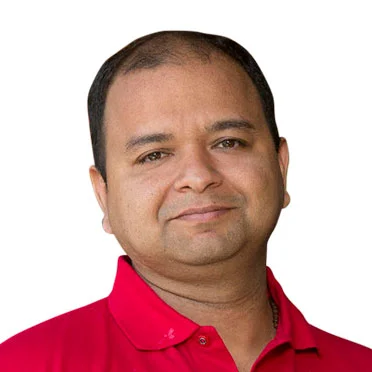
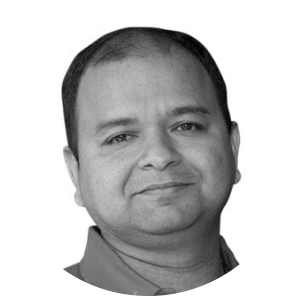
update mission page, fix style issues.

diff --git a/pages/about/index.tsx b/pages/about/index.tsx
@@ -22,30 +22,17 @@ import TeamItem, { TProps } from './TeamItem';
 
 const teams: Array<TProps> = [
   {
-    img: RamImg,
-    name: 'Ram Subramaniam',
+    img: SidImg,
+    name: 'Siddhartha Shekhar Singh',
     desc: (
       <div>
-        Ram is passionate about applying technology and analytics to improve service standards in the consumer financial services industry. He is a serial entrepreneur, who has founded and run successful technology start-ups. He has a Master’s degree from <b>Stanford Graduate School of Business.</b>
+        Siddhartha is passionate about making a positive impact in the lives of people by helping them manage their finances well. He is an experienced consumer banking professional who has worked in insurance, lending, and wealth management businesses. He has a Master’s degree from <b>Stanford Graduate School of Business.</b>
       </div>
     ),
-    mission: 'Cofounder',
+    mission: 'Cofounder CEO',
     bank1: StanfordImg,
     bank2: CitiBankImg,
-    social: 'https://www.linkedin.com/in/ramsubra'
-  },
-  {
-    img: VarunImg,
-    name: 'Varun Agarwal',
-    desc: (
-      <div>
-        Varun is passionate about creating an ecosystem in the financial services space in which all parties can benefit. He is an experienced consumer services professional who has worked in wealth management and insurance business. He has a Master’s degree from <b>Alliance Business Academy.</b>
-      </div>
-    ),
-    mission: 'COO India',
-    bank1: KarvyImg,
-    bank2: CitiBankImg,
-    social: 'https://in.linkedin.com/in/varun-mymoneykarma'
+    social: 'https://www.linkedin.com/in/siddhartha-shekhar-singh-3733105/'
   },
   {
     img: AlexImg,
@@ -61,17 +48,30 @@ const teams: Array<TProps> = [
     social: 'https://www.linkedin.com/in/alexanderharo/'
   },
   {
-    img: SidImg,
-    name: 'Siddhartha Shekhar Singh',
+    img: VarunImg,
+    name: 'Varun Agarwal',
     desc: (
       <div>
-        Siddhartha is passionate about making a positive impact in the lives of people by helping them manage their finances well. He is an experienced consumer banking professional who has worked in insurance, lending, and wealth management businesses. He has a Master’s degree from <b>Stanford Graduate School of Business.</b>
+        Varun is passionate about creating an ecosystem in the financial services space in which all parties can benefit. He is an experienced consumer services professional who has worked in wealth management and insurance business. He has a Master’s degree from <b>Alliance Business Academy.</b>
       </div>
     ),
-    mission: 'Cofounder CEO',
+    mission: 'COO India',
+    bank1: KarvyImg,
+    bank2: CitiBankImg,
+    social: 'https://in.linkedin.com/in/varun-mymoneykarma'
+  },
+  {
+    img: RamImg,
+    name: 'Ram Subramaniam',
+    desc: (
+      <div>
+        Ram is passionate about applying technology and analytics to improve service standards in the consumer financial services industry. He is a serial entrepreneur, who has founded and run successful technology start-ups. He has a Master’s degree from <b>Stanford Graduate School of Business.</b>
+      </div>
+    ),
+    mission: 'Cofounder',
     bank1: StanfordImg,
     bank2: CitiBankImg,
-    social: 'https://www.linkedin.com/in/siddhartha-shekhar-singh-3733105/'
+    social: 'https://www.linkedin.com/in/ramsubra'
   },
   {
     img: KunalImg,
@@ -149,13 +149,13 @@ const About = () => {
       </div>
       <div className="about-content">
         <div className="about-who">
-          <h2 className="mt-91">Who</h2>
+          <h2 className="mt-91">Leadership</h2>
           <p>
-            We are a group of Stanford alumni with a strong background in banking and technology, passionate about creating a positive impact in the lives of people by helping them manage their finances better. We believe that no two people have the same financial situation, so they should not be given one-size-fits-all financial recommendations. <br /><br /> We are providing <b>FREE</b> and <b>EASY</b> access to personalized financial management using proprietary algorithms.
+          “We are a group of Stanford alumni with a strong background in banking and technology, passionate about creating a positive impact in the lives of people by helping them manage their finances better. We believe that no two people have the same financial situation, so they should not be given one-size-fits-all financial recommendations. <br /><br /> We are providing <b>FREE</b> and <b>EASY</b> access to personalized financial management using proprietary algorithms.”
           </p>
         </div>
         <div className="about-team">
-          <h2>Team</h2>
+          <h2>Our Team</h2>
           <div className="about-team-members">
             {
               teams.map((item, index) => (
@@ -175,7 +175,7 @@ const About = () => {
             }
           </div>
         </div>
-        <div className="about-advisers">
+        {/* <div className="about-advisers">
           <h2>Advisers</h2>
           <div className="about-advisers-members">
             {
@@ -195,7 +195,7 @@ const About = () => {
               ))
             }
           </div>
-        </div>
+        </div> */}
       </div>
     </Layout>
   )

diff --git a/pages/about/TeamItem.scss b/pages/about/TeamItem.scss
@@ -1,19 +1,26 @@
 @import '../../styles/base.scss';
 
 .team-item {
-  display: flex;
+  // display: flex;
+  width: 435px;
 
+  
   &-img-wrapper {
-    img {
-      width: 190px;
-      height: 190px;
+    position: relative;
+    
+    .team-profile-img {
+      width: 288px;
+      height: 288px;
       border-radius: 50%;
+      position: absolute;
+      top: 122px;
+      left: 85px;
     }
   }
 
   &-content {
     text-align: left;
-    margin-left: 30px;
+    margin-left: 72px;
   }
 
   &-name {
@@ -22,7 +29,7 @@
     font-weight: 500;
     font-size: 16px;
     line-height: 22px;    
-    color: #FF5A3D;        
+    color: #3913B8;        
   }
 
   &-mission {
@@ -52,16 +59,18 @@
     height: 1px;
     background-color: rgba(29, 28, 28, 0.25);
     margin-top: 10px;
+    width: 315px;
   }
 
   &-desc {
     margin-top: 12.5px;
-    font-family: 'Avenir Next';
+    font-family: 'HelveticaNeue';
     font-style: normal;
     font-weight: normal;
     font-size: 16px;
     line-height: 22px;
 
-    color: #0B0303;
+    color: rgba(11, 3, 3, 0.8);
+    width: 315px;
   }
 }

diff --git a/pages/about/style.scss b/pages/about/style.scss
@@ -3,38 +3,40 @@
 .about-content {
   .about-who {
     text-align: center;
-    max-width: 755px;
+    max-width: 792px;
     margin: 0 auto;
 
     p {
       text-align: left;
       margin-top: 46px;
+      font-size: 32px;
+      line-height: 43px;
+
+      letter-spacing: 0.044151px;
+      color: rgb(6, 8, 9);
     }
   }
 
   .about-team {
-    // text-align: center;
-    max-width: 1440px;
     margin: 0 auto;
-    padding: 0 150px;
-    padding-top: 154px;
+    margin-top: 112px;
+    padding-top: 112px;
+    padding-bottom: 112px;
+    background: linear-gradient(112.56deg, rgba(23, 131, 232, 0.0590035) 13.28%, rgba(19, 49, 226, 0.202278) 81.91%);
 
     h2 {
+      text-align: center;
+      margin-bottom: -12px;
+    }
+
+    &-members {
       text-align: center;
     }
     
     &-item {
       padding: 0 32px;
-      margin-bottom: 95px;
-      width: calc(50% - 64px);
-      display: inline-block;
-
+      display: inline-flex;
     }
-
-    h2 {
-      margin-bottom: 60px;
-    }
-
   }
   
   .about-advisers {

diff --git a/pages/about/TeamItem.tsx b/pages/about/TeamItem.tsx
@@ -1,5 +1,6 @@
 import React from 'react';
 import InImg from '../../assets/mission/in.png';
+import IllustrationImg from '../../assets/mission/illustration.png';
 import './TeamItem.scss';
 
 export type TProps = {
@@ -15,7 +16,8 @@ export type TProps = {
 const TeamItem = ({ img, name, mission, desc, social, bank1, bank2 }: TProps) => (
   <div className="team-item">
     <div className="team-item-img-wrapper">
-      <img src={img} alt="profile_img" />
+      <img src={IllustrationImg} alt="illustration_img" className="team-profile-bg" />
+      <img src={img} className="team-profile-img" alt="profile_img" />
     </div>
     <div className="team-item-content">
       <div className="team-item-name">{name}</div>

diff --git a/pages/credit-score/style.scss b/pages/credit-score/style.scss
@@ -17,7 +17,6 @@
 
     ul {
       margin-top: 26px;
-      // list-style-image: url('../../assets/Checkbox.png');
 
       li {
         margin-top: 13px;
@@ -40,7 +39,7 @@
 
 .cs-hiw {
   background: linear-gradient(112.56deg, rgba(23, 131, 232, 0.0590035) 13.28%, rgba(19, 49, 226, 0.202278) 81.91%);
-  padding: 60px 0 150px 0;
+  padding: 120px 0;
   display: flex;
   flex-direction: column;
   align-items: center;

diff --git a/pages/intelligent-finance/style.scss b/pages/intelligent-finance/style.scss
@@ -30,7 +30,7 @@
 
 .bank-partner-title {
   text-align: center;
-  margin-top: 52px;
+  margin-top: 56px;
 }
 
 .bank-partner-wrapper {
@@ -38,6 +38,7 @@
   max-width: 1256px;
   padding: 0 92px;
   margin-top: 12px;
+  margin-bottom: 56px;
 
   .bank-img-wrapper {
     display: inline-block;

diff --git a/pages/gold-loan/style.scss b/pages/gold-loan/style.scss
@@ -41,7 +41,7 @@
 
 .gl-hiw {
   background: linear-gradient(112.56deg, rgba(23, 131, 232, 0.0590035) 13.28%, rgba(19, 49, 226, 0.202278) 81.91%);
-  padding: 60px 0 150px 0;
+  padding: 120px 0;
   display: flex;
   flex-direction: column;
   align-items: center;

diff --git a/pages/home-loan/style.scss b/pages/home-loan/style.scss
@@ -40,7 +40,7 @@
 
 .hl-hiw {
   background: linear-gradient(112.56deg, rgba(23, 131, 232, 0.0590035) 13.28%, rgba(19, 49, 226, 0.202278) 81.91%);
-  padding: 60px 0 150px 0;
+  padding: 120px 0;
   display: flex;
   flex-direction: column;
   align-items: center;

diff --git a/pages/personal-loan/style.scss b/pages/personal-loan/style.scss
@@ -39,7 +39,7 @@
 
 .pl-hiw {
   background: linear-gradient(112.56deg, rgba(23, 131, 232, 0.0590035) 13.28%, rgba(19, 49, 226, 0.202278) 81.91%);
-  padding: 60px 0 150px 0;
+  padding: 120px 0;
   display: flex;
   flex-direction: column;
   align-items: center;

diff --git a/styles/base.scss b/styles/base.scss
@@ -144,6 +144,7 @@ p {
   letter-spacing: 0.04px;
   line-height: 30px;
   margin: 0;
+  opacity: 0.8;
 }
 
 ul {
